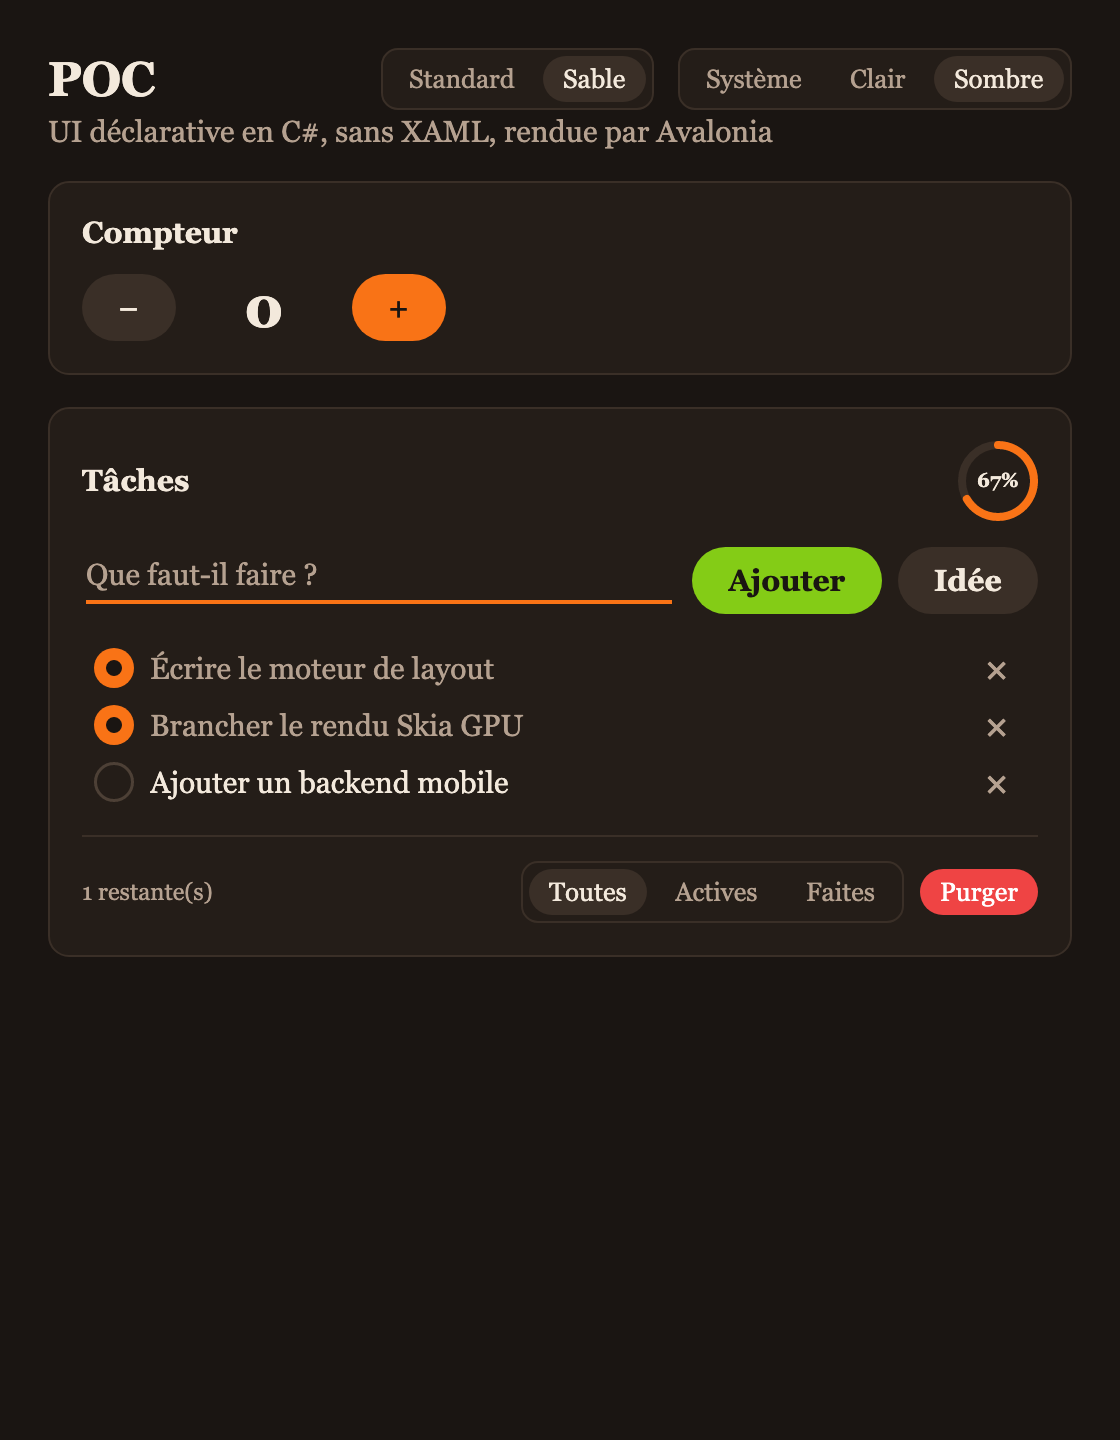
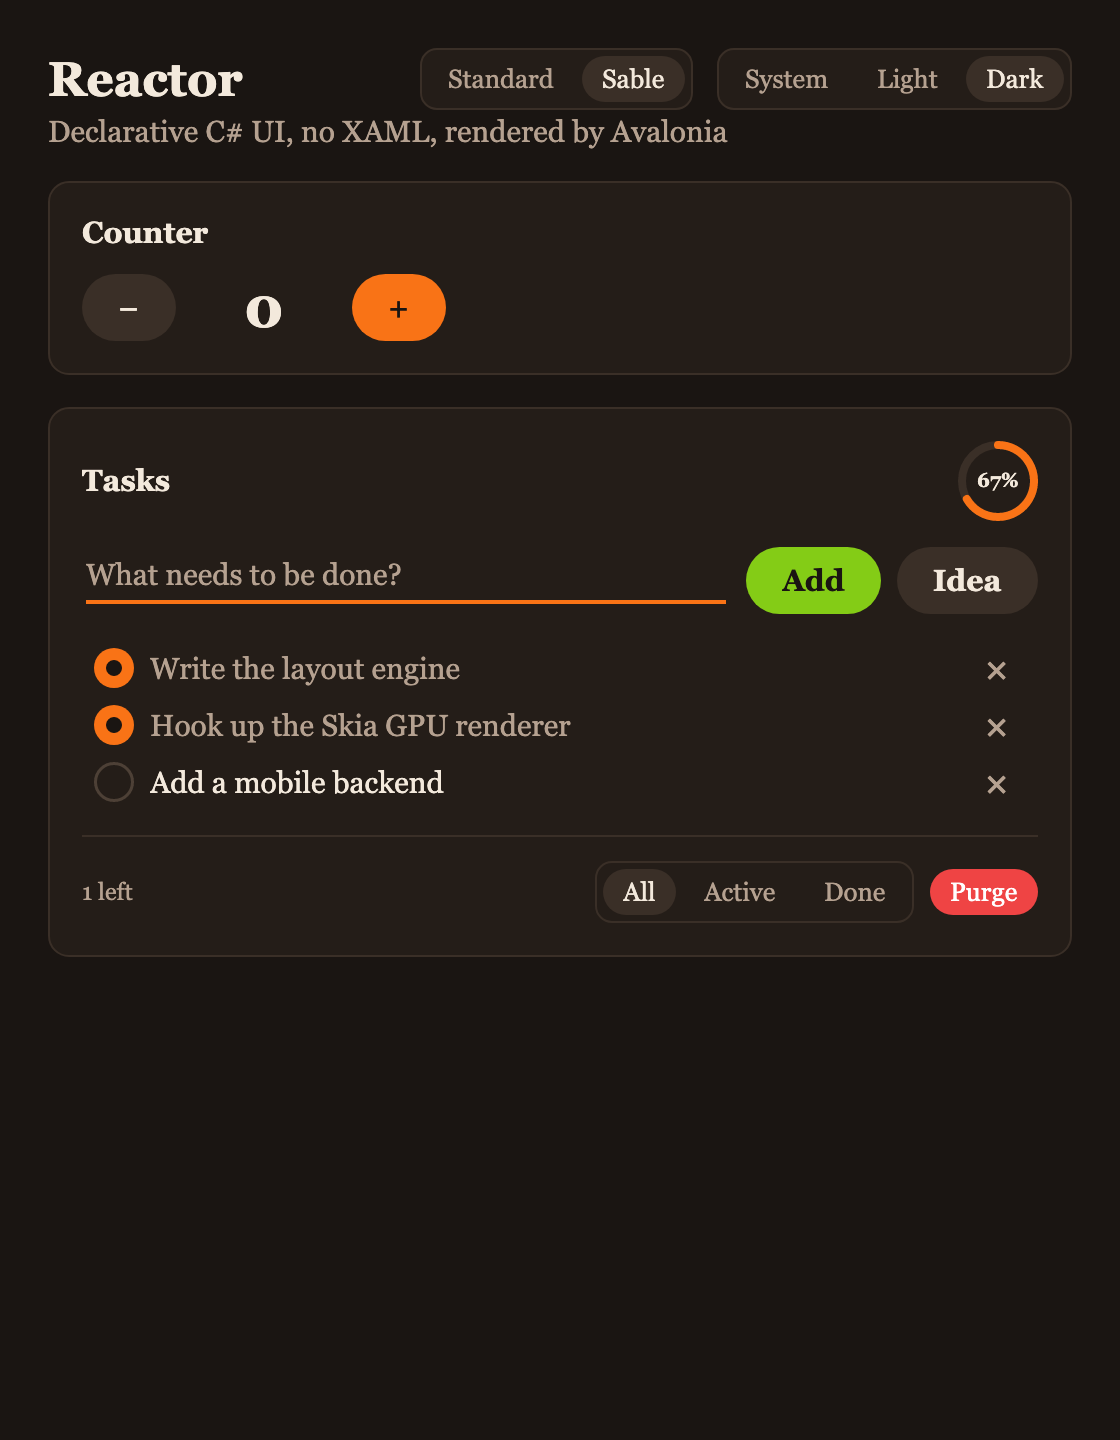
docs: add a binding example, document the coding style and update screenshots
Show a two-way binding (Bind.Name) in the README, describe the Microsoft coding
style in CONTRIBUTING.md, take new screenshots of the English sample, and
rename the Sable night theme in the documentation.

diff --git a/CONTRIBUTING.md b/CONTRIBUTING.md
@@ -33,21 +33,41 @@ small test components in `Probes/`.
 
 When in doubt about an API, look at SwiftUI and Jetpack Compose, then simplify further.
 
-## Coding conventions
+## Coding style
 
-- Identifiers in English, named like SwiftUI (`Button`, `VStack`, `Theme`). XML documentation comments are written in
-  French.
+The repository follows Microsoft's [C# coding conventions](https://learn.microsoft.com/dotnet/csharp/fundamentals/coding-style/coding-conventions)
+and the [dotnet/runtime coding style](https://github.com/dotnet/runtime/blob/main/docs/coding-guidelines/coding-style.md),
+for code and comments alike. [.editorconfig](.editorconfig) describes the rules and the build enforces them; run
+`dotnet format Avalonia.UI.Reactor.sln` to apply most of them automatically.
+
+- Every file starts with the license header; namespaces are file-scoped; braces follow the Allman style, and an
+  embedded statement without braces goes on its own line.
+- Accessibility modifiers are always written. Instance fields are `_camelCase`, static fields `s_camelCase`, constants
+  `PascalCase`. No `this.`; language keywords (`string`, `int`) instead of type names; `var` only when the type is
+  apparent from the right-hand side.
+- Members are ordered: fields, constructors, events, properties, methods; public before private.
+- Asynchronous methods end with `Async` (except `async void` handlers). A method named `Dispose` implies `IDisposable`.
+- Everything is in English: identifiers (named like SwiftUI: `Button`, `VStack`, `Theme`), comments and documentation.
+- Comments are complete sentences, with a capital letter and a final period, on their own line above the code.
+- Every public member of the libraries has XML documentation in the style of the .NET API documentation: a
+  `<summary>` in the third person ("Gets or sets…", "Initializes a new instance of the X class."), then `<param>`,
+  `<returns>` and `<exception>`; details go in `<remarks>` and samples in `<example>`. A missing comment is a build
+  error (CS1591).
+
+## API conventions
+
 - One type per file; the folder gives the namespace.
 - Views and themes are immutable records, customized with `with` and chainable `WithXxx` methods.
 - View factories live in `Ui` (no `new` in views) and take their children first; settings go through modifiers.
 - Every modifier exists in `Modifiers` (generic) **and** `ComponentModifiers` (same signature).
 - A control with a value gets a `Binding<T>` overload.
-- `internal` by default; every public member has an XML comment and is designed to last.
+- `internal` by default; a public type follows the .NET Framework Design Guidelines and is designed to last.
 - Diagnostics, exceptions and logs are in English, in the style of Microsoft's messages. Logs start with `[Reactor]`.
 
 ## Quality bar
 
-- The build treats warnings as errors and runs the .NET analyzers: fix a warning, do not suppress it.
+- The build treats warnings as errors, runs the .NET analyzers and enforces the code style: fix a warning, do not
+  suppress it.
 - No magic numbers or strings: use a named constant or a theme value.
 - No dead code, legacy overloads or duplicated APIs.
 - Every fixed bug comes with a test that fails without the fix.

diff --git a/README.md b/README.md
@@ -27,6 +27,24 @@ public sealed partial class CounterApp : Component
 }
 ```
 
+Controls bind to state with the generated `Bind` property: `Bind.Name` is a `Binding<string>` that the field reads and
+writes, so there is no event handler to write.
+
+```csharp
+public sealed partial class SignUp : Component
+{
+    [State] partial string Name { get; set; } = "";
+    [State] partial bool Newsletter { get; set; }
+
+    public override View Body =>
+        VStack(
+            TextField(Bind.Name, "Your name"),               // reads and writes Name
+            Checkbox(Bind.Newsletter, "Send me the news"),   // reads and writes Newsletter
+            Text(Name.Length == 0 ? "Hello!" : $"Hello, {Name}!"))
+        .Padding(24);
+}
+```
+
 <p align="center">
   <img src="docs/images/demo-standard-light.png" alt="The sample app with the Standard light theme" width="380">
   &nbsp;

diff --git a/docs/architecture.md b/docs/architecture.md
@@ -69,7 +69,7 @@ src/Avalonia.UI.Reactor/
   Widgets/         ReactorButton, ReactorCheckBox, ReactorTextBox, their look (ReactorThemes), Surface, DrawingCanvas
 samples/TodoDemo/
   Program.cs       ReactorApp.Run<TodoApp>(new WindowOptions { … })
-  DemoThemes.cs    Standard and Sable families (Sable and Sable night, with control templates)
+  DemoThemes.cs    Standard and Sable families (Sable and Sable Night, with control templates)
   Components/      TodoApp, CounterCard, TodoList
   Models/          Todo, Filter
   Widgets.cs       Card, Segmented, ProgressRing (stateless components)

diff --git a/docs/theming.md b/docs/theming.md
@@ -11,7 +11,7 @@ var sable = Theme.Light.Named("Sable")          // starts from Light: a light th
     .WithFont("Georgia", bodySize: 15)
     .WithRadius(12);
 
-var sableNight = Theme.Dark.Named("Sable night") // starts from Dark: a dark theme
+var sableNight = Theme.Dark.Named("Sable Night") // starts from Dark: a dark theme
     .WithAccent("#F97316");
 ```
 
